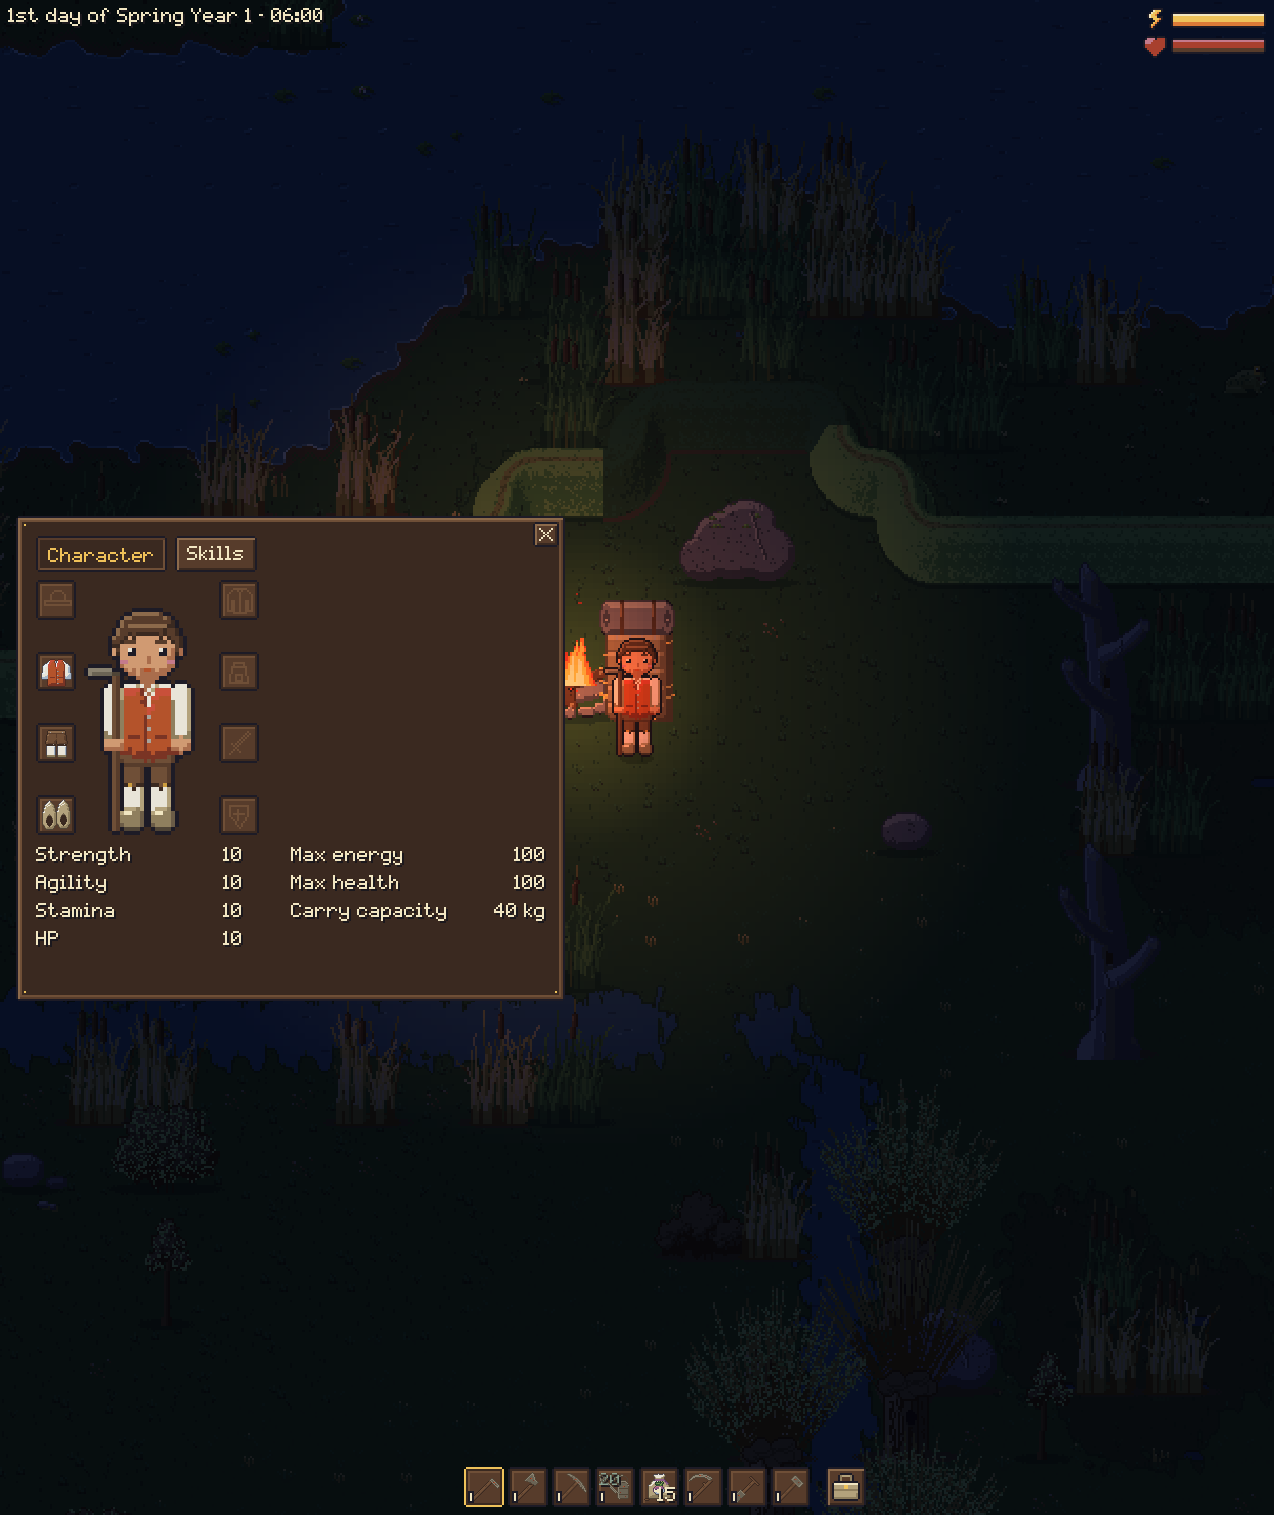
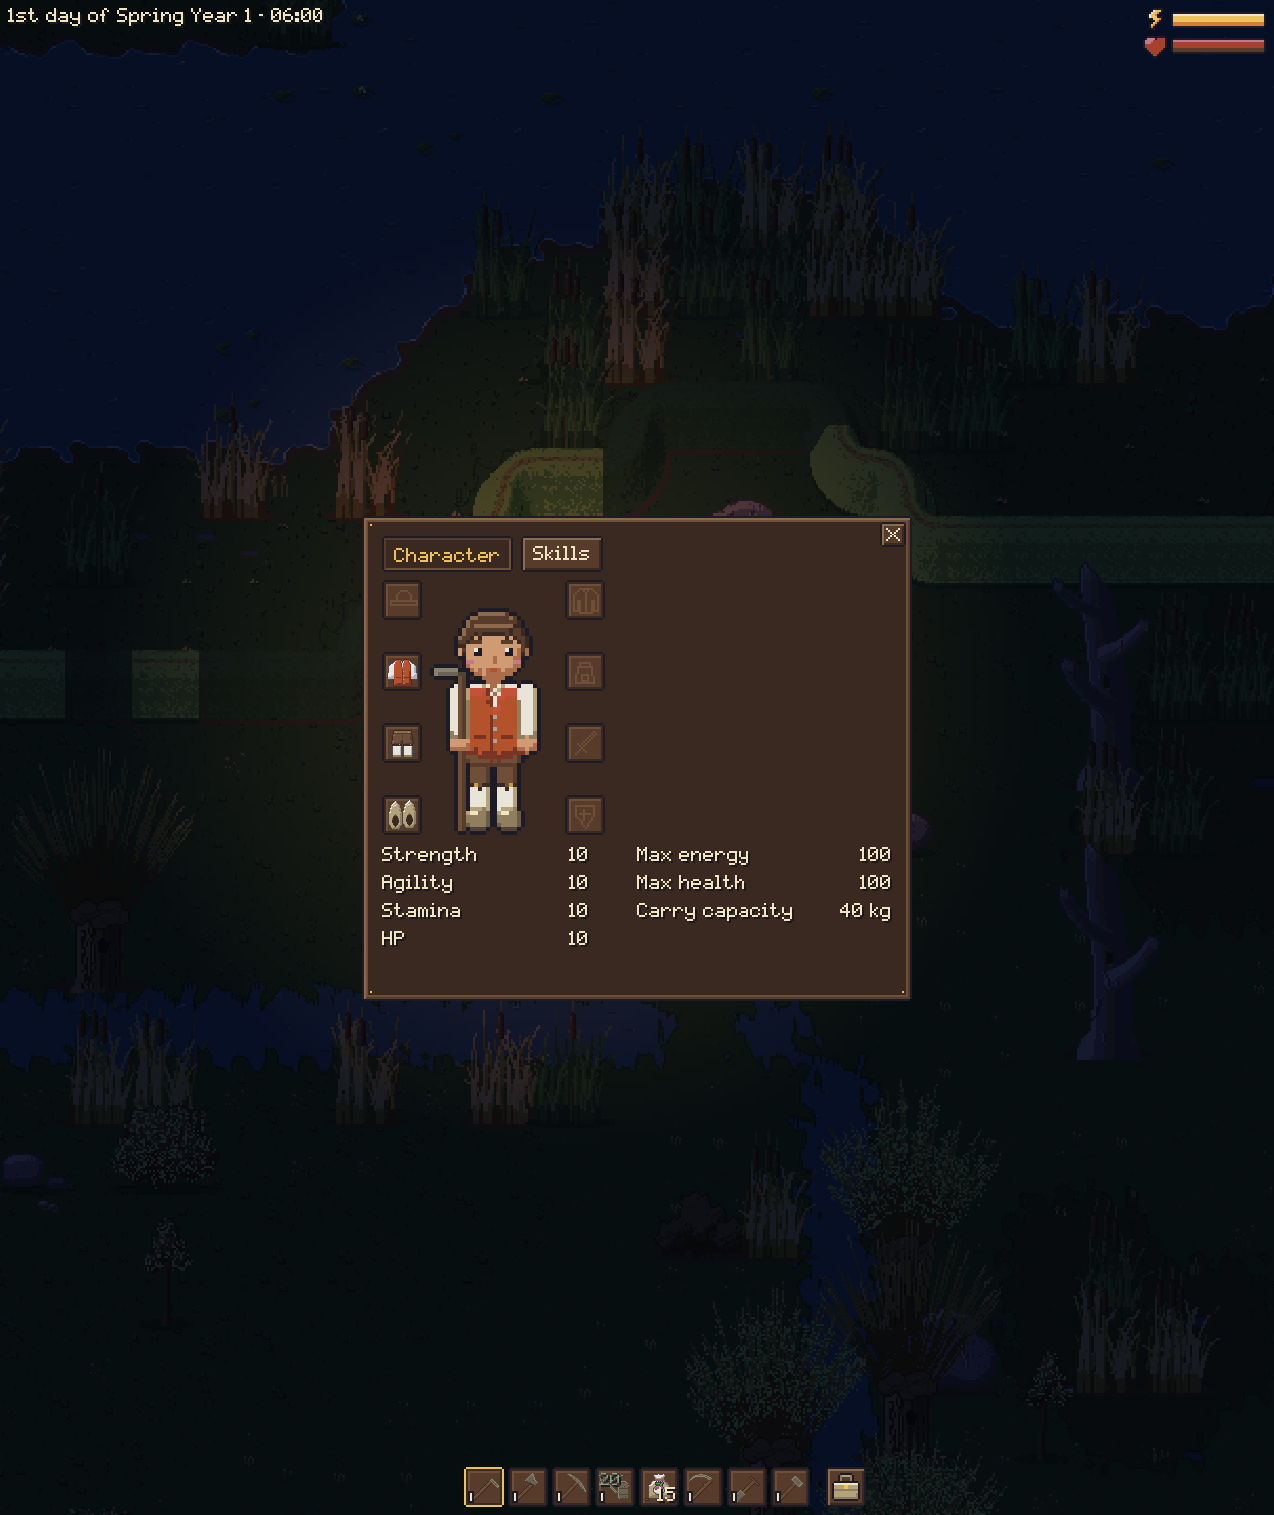
Character window: docked in the middle of the screen (task 215)
Centred, it fits beside the bag at the bottom right. The fit rule is measured against the centred position. Docking is now the flag is_docked with the position dock, as the middle is a dock too.

Changed region(s): [[0.0, 0.3413, 0.7347, 0.6825], [0.2755, 0.2792, 0.3061, 0.3102]]

diff --git a/README.md b/README.md
@@ -572,7 +572,7 @@ on the North Sea coast in the 18th century: a red waistcoat over a linen shirt, 
 with white stockings, wooden clogs, and a short blue jacket and hats to put on. Press B (or click the bag icon
 beside the hotbar) to open the bag with the backpack, and C to open the character window with
 the figure and the equipment slots. You move items between slots by dragging, and wear or take
-off by right click. The two are windows of their own, the character window at the left and the bag
+off by right click. The two are windows of their own, the character window in the middle of the screen and the bag
 at the bottom right above the hotbar, and they can be open at the same time, each closed by its own
 key (Escape closes both; you keep playing meanwhile, walking and using the hotbar and tools as
 usual, and a click outside the windows goes to the world; in a very small window or at a large UI
@@ -612,7 +612,7 @@ nothing. Below 20 % energy the character sweats with every action, and below 10 
 head at midnight and again at half past, while you are still awake: you pass out an hour
 after midnight.
 
-![The bag at the bottom right and the character window at the left, open together: the backpack with its weight and trash can, the equipment slots round the figure](docs/screenshots/bag.png)
+![The character window in the middle and the bag at the bottom right, open together: the backpack with its weight and trash can, the equipment slots round the figure](docs/screenshots/bag.png)
 
 ![The character window with the equipment slots, the attributes and what they give, and the skills tab beside it](docs/screenshots/character.png)
 

diff --git a/docs/ui.md b/docs/ui.md
@@ -142,8 +142,8 @@ extend `HotbarWindow`, which lends them the HUD's hotbar as their quick bar.
   calls `close()`), so `_on_close` is its one clean-up and runs where its dependencies are
   still there.
 - **Docked windows:** the one exception is the pair of docked windows (the bag and the character
-  window, set with `dock` in `_init`; `dock_inset` keeps the bag above the hotbar). They open at the
-  left and at the bottom right of the screen, are not dimmed, take no click outside to close, stay
+  window, set with `is_docked` and `dock` in `_init`; `dock_inset` keeps the bag above the hotbar).
+  They open in the middle of the screen (the character window) and at its bottom right (the bag), are not dimmed, take no click outside to close, stay
   open together (their keys only open and close their own window, see `can_open_on_key`) and Escape
   closes both (unless the bag's trash can has a question up, which Escape answers first). They don't
   pause the game, and the player keeps playing beside them: walking, the hotbar's number keys and

diff --git a/design/presentation/menus-and-hud.md b/design/presentation/menus-and-hud.md
@@ -35,7 +35,7 @@ Decided 2026-11-05.
   unbound; the hammer has no key (it is selected on the hotbar).
 - **The character window** (task 191, 2026-11-12): C opens a window of its own with the figure, the
   equipment slots round it (no trash can: that is the bag's) and a Skills tab (K opens it there). It
-  is docked at the left of the window and open beside the bag (task 215, 2026-11-13, the usual MMO
+  is docked in the middle of the window (the user, 2026-11-13: it fits beside the bag) and open beside the bag (task 215, 2026-11-13, the usual MMO
   layout: each opens and closes on its own key or button, both can be open at once, Escape closes
   both, the world is not dimmed and you keep playing: walking, the hotbar keys and wheel and clicks
   on the world work with them open; the layout and behaviour only, no art or look is copied; where

diff --git a/design/player/inventory-and-character.md b/design/player/inventory-and-character.md
@@ -55,7 +55,7 @@
 - **Character window and bag** (decided 2026-11-05 as one screen; B instead of Tab since task 190;
   split in two windows in task 191, 2026-11-12): C opens the character window with the character
   and their equipment, B opens the bag with the backpack. Both are docked Modals (task 215):
-  the character window at the left, the bag at the bottom right, open together or alone. From the
+  the character window in the middle of the screen, the bag at the bottom right, open together or alone. From the
   backpack a worn item is chosen by dragging it onto the slot in the character window or by right
   click, and taken off by dragging it into the bag's backpack; from the hotbar (the quick bar of
   both) by dragging onto the slot.
